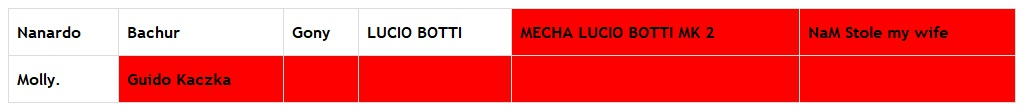
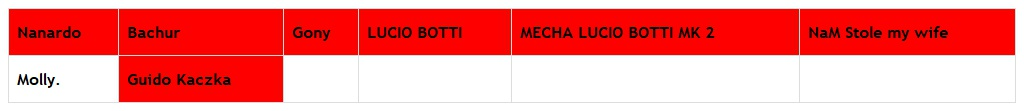
Fixed styles

diff --git a/template.html b/template.html
@@ -27,7 +27,7 @@
     {% for row in personajes | batch(6, '&nbsp;')%}
     <tr>
         {% for personaje in row %}
-            {% if personaje.vivo %}
+            {% if personaje.vivo or personaje.nombre is not defined %}
             <th>
             {% else %}
             <th style="background-color: #FF0000">
